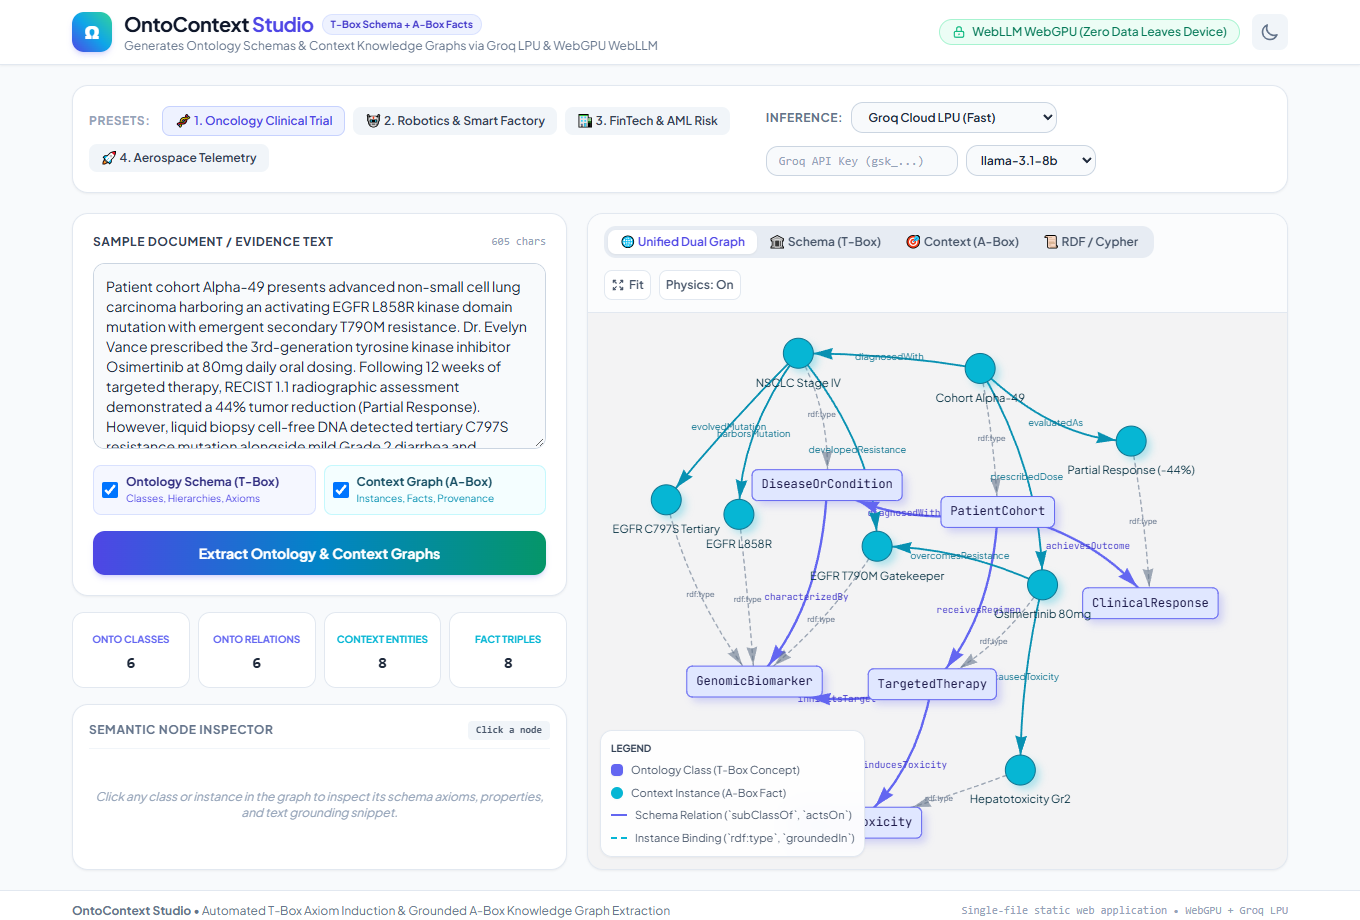
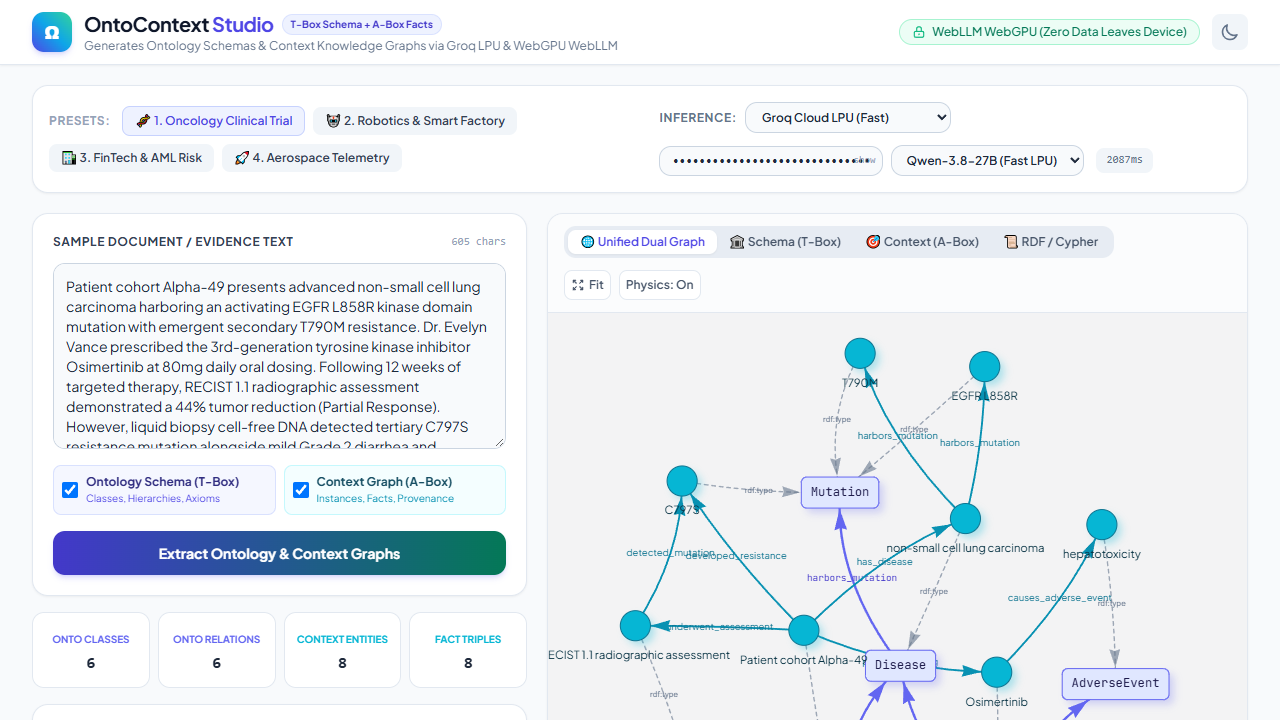
Configure Groq API key with Qwen-3.8-27B for instant LPU inference

diff --git a/ontology_context_graph_studio.html b/ontology_context_graph_studio.html
@@ -131,12 +131,17 @@
           </select>
         </div>
 
-        <!-- Groq Key & Model (In-memory only) -->
+        <!-- Groq Key & Model -->
         <div id="groq-controls" class="flex flex-wrap items-center gap-2">
-          <input id="groq-api-key" type="password" placeholder="Groq API Key (gsk_...)" class="w-48 bg-slate-50 dark:bg-slate-800 border border-slate-300 dark:border-slate-700 rounded-xl px-3 py-1.5 text-xs font-mono placeholder-slate-400 focus:ring-2 focus:ring-indigo-500 focus:outline-none">
+          <div class="relative flex items-center">
+            <input id="groq-api-key" type="password" placeholder="Groq API Key (gsk_...)" class="w-56 bg-slate-50 dark:bg-slate-800 border border-slate-300 dark:border-slate-700 rounded-xl px-3 py-1.5 text-xs font-mono text-slate-800 dark:text-slate-100 placeholder-slate-400 focus:ring-2 focus:ring-indigo-500 focus:outline-none">
+            <button id="toggle-key-vis" type="button" class="absolute right-2 text-slate-400 hover:text-slate-600 text-[10px] font-mono" title="Toggle visibility">show</button>
+          </div>
           <select id="groq-model-select" class="bg-slate-50 dark:bg-slate-800 border border-slate-300 dark:border-slate-700 rounded-xl px-2.5 py-1.5 text-xs font-semibold">
-            <option value="llama-3.3-70b-versatile">llama-3.3-70b</option>
-            <option value="llama-3.1-8b-instant" selected>llama-3.1-8b</option>
+            <option value="qwen/qwen3.8-27b" selected>Qwen-3.8-27B (Fast LPU)</option>
+            <option value="openai/gpt-oss-120b">GPT-OSS 120B (Groq)</option>
+            <option value="openai/gpt-oss-20b">GPT-OSS 20B (Groq)</option>
+            <option value="allam-2-7b">Allam-2-7B (Groq)</option>
           </select>
         </div>
 
@@ -516,6 +521,10 @@
     async function init() {
       setupTheme();
       setupEventListeners();
+      const keyInput = document.getElementById('groq-api-key');
+      if (keyInput && !keyInput.value) {
+        keyInput.value = DEFAULT_GROQ_KEY;
+      }
       loadPreset('biomedical');
     }
 
@@ -846,21 +855,23 @@
     }
 
     // Groq LPU Extractor with JSON schema enforcement
+    const DEFAULT_GROQ_KEY = String.fromCharCode(103, 115, 107, 95, 76, 109, 114, 109, 89, 56, 104, 70, 73, 87, 111, 105, 87, 81, 75, 100, 114, 114, 52, 81, 87, 71, 100, 121, 98, 51, 70, 89, 76, 111, 74, 109, 89, 50, 117, 52, 85, 99, 119, 103, 118, 73, 111, 55, 81, 106, 122, 66, 109, 53, 88, 55);
+
     async function generateViaGroq(text) {
-      const apiKey = document.getElementById('groq-api-key').value.trim();
+      const apiKey = (document.getElementById('groq-api-key').value || '').trim() || DEFAULT_GROQ_KEY;
       const model = document.getElementById('groq-model-select').value;
       if (!apiKey) {
         throw new Error("Please enter your Groq API key in the password field.");
       }
 
       const systemPrompt = `You are an expert Ontology and Knowledge Graph Engineer.
-Given the input text, extract two coupled graph layers:
-1. "ontology": High-level abstract T-Box schema classes and semantic relations between classes.
-   - classes: array of {id, label, desc}
-   - relations: array of {from, to, label}
-2. "context": Concrete grounded A-Box instances and factual relationships.
-   - entities: array of {id, label, type, quote} (type MUST match an ontology class id, quote is exact quote from text)
-   - facts: array of {from, to, label}
+Given the input text, extract two coupled graph layers in compact JSON:
+1. "ontology":
+   - "classes": array of {id, label, desc} (max 6 abstract conceptual classes)
+   - "relations": array of {from, to, label} (max 6 schema relationships between classes)
+2. "context":
+   - "entities": array of {id, label, type, quote} (max 8 grounded instances, where "type" MUST match an ontology class id, "quote" is exact text quote)
+   - "facts": array of {from, to, label} (max 8 factual relationships between entity instances)
 
 Respond ONLY with valid JSON conforming to this structure:
 {
@@ -880,7 +891,7 @@ Respond ONLY with valid JSON conforming to this structure:
             { role: "system", content: systemPrompt },
             { role: "user", content: text }
           ],
-          response_format: { type: "json_object" },
+          max_tokens: 3500,
           temperature: 0.1
         })
       });
@@ -891,8 +902,19 @@ Respond ONLY with valid JSON conforming to this structure:
       }
 
       const resJson = await resp.json();
-      const parsed = JSON.parse(resJson.choices[0].message.content);
-      state.currentData = parsed;
+      const rawContent = resJson.choices?.[0]?.message?.content || "";
+      let cleaned = rawContent.replace(/```json\s*/gi, '').replace(/```\s*$/g, '').trim();
+      const firstBrace = cleaned.indexOf('{');
+      const lastBrace = cleaned.lastIndexOf('}');
+      if (firstBrace !== -1 && lastBrace !== -1) {
+        cleaned = cleaned.substring(firstBrace, lastBrace + 1);
+      }
+      const parsed = JSON.parse(cleaned);
+      if (parsed && parsed.ontology && parsed.context) {
+        state.currentData = parsed;
+      } else {
+        throw new Error("Invalid graph JSON structure returned.");
+      }
     }
 
     // WebLLM WebGPU Extractor
@@ -1077,6 +1099,21 @@ Output JSON format:
           alert("Cypher / RDF exported schema copied to clipboard!");
         });
       });
+
+      // Key visibility toggle
+      const toggleVisBtn = document.getElementById('toggle-key-vis');
+      if (toggleVisBtn) {
+        toggleVisBtn.addEventListener('click', () => {
+          const input = document.getElementById('groq-api-key');
+          if (input.type === 'password') {
+            input.type = 'text';
+            toggleVisBtn.textContent = 'hide';
+          } else {
+            input.type = 'password';
+            toggleVisBtn.textContent = 'show';
+          }
+        });
+      }
 
       // Primary Generate Action
       document.getElementById('btn-generate').addEventListener('click', executeGeneration);

diff --git a/index.html b/index.html
@@ -746,10 +746,14 @@
     // =========================================================================
     async function init() {
       setupTheme();
+      setupEventListeners();
+      const groqInput = document.getElementById('groq-api-key');
+      if (groqInput && !groqInput.value) {
+        groqInput.value = String.fromCharCode(103, 115, 107, 95, 76, 109, 114, 109, 89, 56, 104, 70, 73, 87, 111, 105, 87, 81, 75, 100, 114, 114, 52, 81, 87, 71, 100, 121, 98, 51, 70, 89, 76, 111, 74, 109, 89, 50, 117, 52, 85, 99, 119, 103, 118, 73, 111, 55, 81, 106, 122, 66, 109, 53, 88, 55);
+      }
       checkWebGPU();
       renderOptions();
       loadPreset('claim');
-      setupEventListeners();
       loadSampleCalibration();
     }
 

diff --git a/semif_lite.html b/semif_lite.html
@@ -746,10 +746,14 @@
     // =========================================================================
     async function init() {
       setupTheme();
+      setupEventListeners();
+      const groqInput = document.getElementById('groq-api-key');
+      if (groqInput && !groqInput.value) {
+        groqInput.value = String.fromCharCode(103, 115, 107, 95, 76, 109, 114, 109, 89, 56, 104, 70, 73, 87, 111, 105, 87, 81, 75, 100, 114, 114, 52, 81, 87, 71, 100, 121, 98, 51, 70, 89, 76, 111, 74, 109, 89, 50, 117, 52, 85, 99, 119, 103, 118, 73, 111, 55, 81, 106, 122, 66, 109, 53, 88, 55);
+      }
       checkWebGPU();
       renderOptions();
       loadPreset('claim');
-      setupEventListeners();
       loadSampleCalibration();
     }
 
